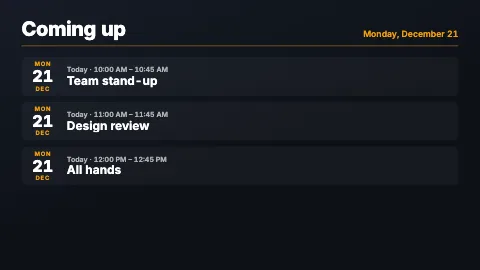
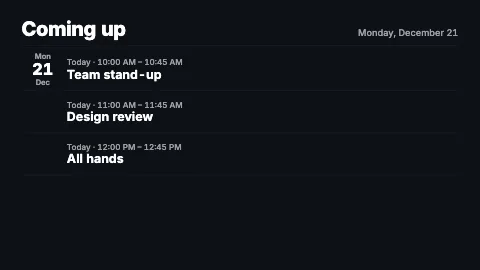
feat(agenda): ruled rows on a flat ground, the accent only on what is on now, one heading a day
The board's agenda (#news-design): a flat ground with ruled rows, not a card per row on a gradient; the accent only on
the event that is on now (a bar at its edge and its time), measured on the background; today's date, the subtitle and
the day labels muted, the labels in title case at 2.8vmin; three text sizes (3, 3.4 and 4.6vmin) plus the day
numeral; and a second event on a day already shown leaves its date column blank (main.ts marks it). Agenda 1.5.0.

Pi measurement waived by the owner (2026-11-26).

Changed region(s): [[0.0312, 0.0889, 0.9688, 0.3556], [0.0625, 0.3556, 0.375, 0.5037], [0.0625, 0.5333, 0.375, 0.6815]]

diff --git a/templates/agenda/style.css b/templates/agenda/style.css
@@ -121,7 +121,6 @@ body {
 :root {
   --accent: var(--sf-accent, #ffb547);
   --bg: var(--sf-bg, #0d1117);
-  --surface: var(--sf-surface, #161c27);
   --text: var(--sf-text, #fff);
   --muted: var(--sf-muted, color-mix(in srgb, var(--text) 60%, transparent));
 }
@@ -140,16 +139,16 @@ body {
   padding: calc(var(--u) * 7) calc(var(--u) * 8);
   display: flex;
   flex-direction: column;
-  background: linear-gradient(160deg, var(--surface) 0%, var(--bg) 55%);
+  background: var(--bg);
 }
 header {
   display: flex;
   justify-content: space-between;
-  align-items: flex-end;
+  align-items: baseline;
   gap: 4vmin;
-  margin-bottom: calc(var(--u) * 4);
+  margin-bottom: calc(var(--u) * 1);
   padding-bottom: calc(var(--u) * 2.4);
-  border-bottom: 0.3vmin solid color-mix(in srgb, var(--accent) 60%, transparent);
+  border-bottom: max(1px, 0.1vmin) solid color-mix(in srgb, var(--text) 18%, transparent);
   will-change: transform, opacity;
   animation:
     rise-in 0.65s var(--d-in) both,
@@ -163,25 +162,25 @@ h1 {
   letter-spacing: -0.02em;
   line-height: 1;
 }
-.subtitle {
-  font-size: calc(var(--u) * 3);
+.subtitle,
+.today {
+  font-size: calc(var(--u) * 3.4);
+  font-weight: 500;
   color: var(--muted);
+}
+.subtitle {
   margin-top: calc(var(--u) * 1.2);
 }
 .subtitle:empty {
   display: none;
 }
 .today {
-  font-size: calc(var(--u) * 3.2);
-  font-weight: 600;
-  color: var(--accent-text);
   white-space: nowrap;
 }
 .events {
   list-style: none;
   display: flex;
   flex-direction: column;
-  gap: calc(var(--u) * 2.2);
   flex: 1;
   min-height: 0;
   overflow: hidden;
@@ -189,22 +188,19 @@ h1 {
 .event {
   flex: none;
 }
+/* Ruled rows on a flat ground. */
 .event {
+  position: relative;
   display: flex;
   align-items: center;
   gap: calc(var(--u) * 3.4);
-  padding: calc(var(--u) * 1.6) calc(var(--u) * 2.4);
-  border-radius: var(--sf-radius, calc(var(--u) * 2)); /* The kit's surface, tinted with its text colour so a card stands out on a light kit too. */
-  background: color-mix(in srgb, var(--sf-surface, rgba(255, 255, 255, 0.045)) 90%, var(--sf-text, transparent));
+  padding: calc(var(--u) * 1.6) 0 calc(var(--u) * 1.6) calc(var(--u) * 2.4);
+  border-bottom: max(1px, 0.1vmin) solid color-mix(in srgb, var(--text) 12%, transparent);
   will-change: transform, opacity;
   animation:
-    slide-in 0.65s var(--d-in) both,
+    rise-in 0.65s var(--d-in) both,
     fade-out 0.3s var(--d-out) forwards;
   animation-delay: calc(0.25s + var(--i) * 0.11s), var(--out);
-}
-.event.now {
-  background: color-mix(in srgb, var(--accent) 16%, transparent);
-  box-shadow: inset 0.5vmin 0 0 var(--accent);
 }
 .day {
   flex: none;
@@ -215,11 +211,9 @@ h1 {
 .dow,
 .mon {
   display: block;
-  font-size: calc(var(--u) * 2.2);
-  font-weight: 700;
-  letter-spacing: 0.12em;
-  text-transform: uppercase;
-  color: var(--day-text);
+  font-size: calc(var(--u) * 2.8);
+  font-weight: 600;
+  color: var(--muted);
 }
 .num {
   display: block;
@@ -231,13 +225,13 @@ h1 {
   min-width: 0;
 }
 .when {
-  font-size: calc(var(--u) * 2.6);
-  font-weight: 600;
-  color: color-mix(in srgb, var(--text) 65%, transparent);
+  font-size: calc(var(--u) * 3);
+  font-weight: 500;
+  color: var(--muted);
 }
 /* Up to two lines, then an ellipsis. */
 .name {
-  font-size: calc(var(--u) * 4.4);
+  font-size: calc(var(--u) * 4.6);
   font-weight: 700;
   line-height: 1.15;
   display: -webkit-box;
@@ -247,7 +241,7 @@ h1 {
   overflow-wrap: anywhere;
 }
 .where {
-  font-size: calc(var(--u) * 2.6);
+  font-size: calc(var(--u) * 3);
   color: var(--muted);
 }
 .where:empty {
@@ -279,11 +273,11 @@ h1 {
   align-items: flex-start;
 }
 /* Portrait has twice the height: taller rows and larger type rather than a list in the top third. */
-[data-orientation='portrait'] .events {
-  gap: calc(var(--u) * 3.4);
+[data-orientation='portrait'] h1 {
+  font-size: calc(var(--u) * 8);
 }
 [data-orientation='portrait'] .event {
-  padding: calc(var(--u) * 3.4) calc(var(--u) * 3.4);
+  padding: calc(var(--u) * 3.4) 0 calc(var(--u) * 3.4) calc(var(--u) * 3.4);
   gap: calc(var(--u) * 4);
 }
 [data-orientation='portrait'] .day {
@@ -304,13 +298,24 @@ h1 {
   font-size: calc(var(--u) * 5.4);
   margin: calc(var(--u) * 0.6) 0;
 }
-@keyframes rise-in {
-  from {
-    opacity: 0;
-    transform: translateY(1.5vmin);
-  }
+/* The accent marks only what is on now: a bar at its edge and its time. */
+.event.now::before {
+  content: '';
+  position: absolute;
+  left: 0;
+  top: calc(var(--u) * 2.4);
+  bottom: calc(var(--u) * 2.4);
+  width: 0.6vmin;
+  background: var(--accent);
 }
-@keyframes slide-in {
+.event.now .when {
+  color: var(--accent-text);
+}
+/* A second event on a day already shown keeps the day's column, blank: one heading a day. */
+.event.same-day .day {
+  visibility: hidden;
+}
+@keyframes rise-in {
   from {
     opacity: 0;
     transform: translateY(1.5vmin);

diff --git a/templates/agenda/test/browser.test.ts b/templates/agenda/test/browser.test.ts
@@ -1,5 +1,5 @@
 import { describe, expect, it } from 'vitest';
-import { at, brandColourTests, host, motionContract, screenFrame, spotData, useTemplate, type Update } from '@signforge/template-test';
+import { at, brandColourTests, DEMO_KIT, host, motionContract, screenFrame, spotData, useTemplate, type Update } from '@signforge/template-test';
 
 const update: Update = {
   a: {
@@ -30,7 +30,7 @@ describe('template time', () => {
 
 brandColourTests(t, {
   spots: (accent) => [[{ accent, events: [...(update.b.events as unknown[]), ...(update.a.events as unknown[])] }]],
-  onBackdrop: ['.today', '.now .mon', '.event:not(.now) .mon'],
+  onBackdrop: ['.now .when'],
 });
 
 // D's motion (docs/template-spec.md, Motion), read by seeking: every row of a full day.
@@ -40,4 +40,41 @@ for (const orientation of ['landscape', 'portrait'] as const)
     const durationMs = 11_000;
     const events = [...(update.b.events as unknown[]), ...(update.a.events as unknown[])];
     expect(await motionContract(await k.play({ subtitle: 'Main hall', events }, undefined, durationMs), durationMs)).toEqual([]);
+  });
+
+// The board's agenda (#news-design): ruled rows on a flat ground, the accent only on what is on now, title-case day
+// labels, and one date heading a day.
+for (const orientation of ['landscape', 'portrait'] as const)
+  it(`rules its rows on a flat ground, keeps the accent to what is on now and heads each day once, ${orientation}`, async () => {
+    const k = await screenFrame(t(), orientation, {});
+    const events = [
+      { title: 'Design review', start: at(-0.5), end: at(1), allDay: false, location: 'Product design' },
+      { title: 'Quarterly planning', start: at(2), end: at(3), allDay: false, location: 'Operations' },
+      { title: 'Candidate interviews', start: at(25), end: at(26), allDay: false, location: 'People team' },
+    ];
+    const f = await k.play({ events }, { colors: { ...DEMO_KIT, accent: '#ffb547' }, shape: 'soft', fonts: {} });
+    const seen = await f.evaluate(() => {
+      for (const a of document.getAnimations()) a.currentTime = 3000;
+      const rows = [...document.querySelectorAll<HTMLElement>('.event')];
+      const style = (el: Element) => getComputedStyle(el);
+      const accent = style(document.querySelector('.now .when')!).color;
+      return {
+        stage: style(document.querySelector('.stage')!).backgroundImage,
+        cards: rows.map((r) => style(r).backgroundColor),
+        rules: rows.map((r) => style(r).borderBottomStyle),
+        accented: [...document.querySelectorAll('.today, .when, .dow, .mon, .name, .where')]
+          .filter((el) => style(el).color === accent)
+          .map((el) => el.className),
+        days: rows.map((r) => style(r.querySelector('.day')!).visibility),
+        labels: [style(rows[0]!.querySelector('.dow')!).textTransform, rows[0]!.querySelector('.dow')!.textContent],
+      };
+    });
+    expect(seen).toEqual({
+      stage: 'none',
+      cards: ['rgba(0, 0, 0, 0)', 'rgba(0, 0, 0, 0)', 'rgba(0, 0, 0, 0)'],
+      rules: ['solid', 'solid', 'solid'],
+      accented: ['when'],
+      days: ['visible', 'hidden', 'visible'],
+      labels: ['none', 'Tue'],
+    });
   });

diff --git a/templates/agenda/main.ts b/templates/agenda/main.ts
@@ -1,5 +1,5 @@
 import { dayKey, defineTemplate, formatter, now as clockNow } from '@signforge/template-sdk';
-import { painted, readableOn } from '@signforge/template-sdk/contrast';
+import { readableOn } from '@signforge/template-sdk/contrast';
 
 interface Event {
   title: string;
@@ -17,14 +17,9 @@ defineTemplate({
     const root = document.documentElement;
     const accent = String(ctx.data.accent);
     root.style.setProperty('--accent', accent);
-    // Accent text must read where it sits (amber, for one, does not on a light kit): the date on
-    // the background and on the surface its gradient starts from.
-    // The date (3.2vmin) and the day labels (2.2vmin, bold) are large text at 1080p, where 3:1 reads.
-    const large = { large: true };
-    const style = getComputedStyle(root);
-    const bg = style.getPropertyValue('--bg');
-    const surface = style.getPropertyValue('--surface');
-    root.style.setProperty('--accent-text', readableOn(surface, readableOn(bg, accent, large), large));
+    // The accent marks only what is on now: its time, on the background, must read (amber, for one, does not on a
+    // light kit). It is large text at 1080p (3vmin, 32 px), where 3:1 reads.
+    root.style.setProperty('--accent-text', readableOn(getComputedStyle(root).getPropertyValue('--bg'), accent, { large: true }));
     const now = clockNow();
     const today = dayKey(ctx, now);
     const tomorrow = dayKey(ctx, new Date(now.getTime() + 864e5));
@@ -42,6 +37,7 @@ defineTemplate({
     const time = formatter(ctx, { hour: 'numeric', minute: '2-digit' });
     // All-day dates are formatted in UTC to keep them on the date they name.
     const utc = { ...ctx, timezone: 'UTC' };
+    let lastDay = '';
     rows.forEach((e, i) => {
       const li = tpl.content.firstElementChild!.cloneNode(true) as HTMLElement;
       li.style.setProperty('--i', String(i));
@@ -59,18 +55,12 @@ defineTemplate({
       q('.name').textContent = e.title;
       q('.where').textContent = e.location;
       if (happening || (e.allDay && key === today)) li.classList.add('now');
+      // One heading a day: a second event on the same day leaves the date to the one above.
+      if (key === lastDay) li.classList.add('same-day');
+      lastDay = key;
       list.appendChild(li);
     });
     // Show only whole rows: drop from the end until the list fits its space.
     while (list.children.length > 1 && list.scrollHeight > list.clientHeight + 1) list.lastElementChild!.remove();
-    // A row's day is the accent on its card, which mixes the surface with the text (or, happening
-    // now, is the accent over the stage): a translucent card is measured over both ends of the
-    // stage's gradient. Rows share two kinds of card, so each is read once.
-    const days = new Map<string, string>();
-    for (const li of list.children) {
-      const card = getComputedStyle(li).backgroundColor;
-      if (!days.has(card)) days.set(card, readableOn(painted(surface, card), readableOn(painted(bg, card), accent, large), large));
-      (li as HTMLElement).style.setProperty('--day-text', days.get(card)!);
-    }
   },
 });

diff --git a/docs/template-spec.md b/docs/template-spec.md
@@ -78,7 +78,7 @@ Each template's browser tests check it (`templates/<id>/test/browser.test.ts`, i
 - `defineTemplate({ prepare, play })` hooks for anything markup cannot do, such as building rows from a list or drawing to a canvas. `prepare` may be async; ready is reported after it resolves. A `stop` hook exists in the SDK but the player does not call it today: a template is simply removed.
 - `formatter(ctx, options)` and `dayKey(ctx, date)` format dates and times in the screen's time zone and locale. Use them for anything shown: the device's own clock settings may not match the screen's location.
 - `fitWords(text, fits)` shortens text to the whole words that fit, ending in "…": CSS `text-overflow` cuts after a space and shows "rain …". `fits` sets the candidate and checks for overflow (`packages/template-sdk/src/fit.test.ts`); it costs about log2(words) layouts, and only for text that overflows.
-- `readableOn(fill, text)` from `@signforge/template-sdk/contrast` is `text` when it reads on `fill` (4.5:1), else black or white, whichever reads better; `readableOn(fill, text, { large: true })` asks 3:1, for large text (below). Use it for text on a fill the template does not choose: a colour field or a kit's colour, whose on-colour a kit may set by hand to a pair that fails (cstore-promo's badge, photo-promo's price tag). Use it the other way round for accent-coloured text, `readableOn(background, accent)`, measured against what the text really sits on: clock's greeting on `--bg` under its accent glow, menu-board's prices on their card, cstore-promo's promo line on the copy panel over the stage. Colours are `#rgb` or `#rrggbb`; a `color-mix` comes back from `getComputedStyle` as `color(srgb …)`, and a translucent card shows what is under it, so resolve the backdrop first with `painted(...layers)` from the same entry point, bottom first, a layer a colour or `[colour, opacity]` (menu-board: `painted(bg, getComputedStyle(card).backgroundColor)`). It reads a 1×1 canvas, so call it once per backdrop, not per row (agenda keeps one per kind of card). Text over a gradient is measured over both ends (agenda's stage, cstore-promo's). It is a separate entry point so that templates which do not use it keep their bundles byte for byte.
+- `readableOn(fill, text)` from `@signforge/template-sdk/contrast` is `text` when it reads on `fill` (4.5:1), else black or white, whichever reads better; `readableOn(fill, text, { large: true })` asks 3:1, for large text (below). Use it for text on a fill the template does not choose: a colour field or a kit's colour, whose on-colour a kit may set by hand to a pair that fails (cstore-promo's badge, photo-promo's price tag). Use it the other way round for accent-coloured text, `readableOn(background, accent)`, measured against what the text really sits on: clock's greeting on `--bg` under its accent glow, menu-board's prices on their card, cstore-promo's promo line on the copy panel over the stage. Colours are `#rgb` or `#rrggbb`; a `color-mix` comes back from `getComputedStyle` as `color(srgb …)`, and a translucent card shows what is under it, so resolve the backdrop first with `painted(...layers)` from the same entry point, bottom first, a layer a colour or `[colour, opacity]` (menu-board: `painted(bg, getComputedStyle(card).backgroundColor)`). It reads a 1×1 canvas, so call it once per backdrop, not per row. Text over a gradient is measured over both ends (cstore-promo's stage). It is a separate entry point so that templates which do not use it keep their bundles byte for byte.
 - `readableOver(pixels, text, { large, lightest })` from `@signforge/template-sdk/backdrop` is the same for a backdrop that is not one colour, text over a photo: given the RGBA pixels behind the text, it is `text` when it reads on every one, else black or white when one of them does, else undefined, and the text needs a fill of its own. With `lightest`, the pixels are an image's sample: each cell's darkest pixel in `pixels` and its lightest at the same place in `lightest`, and the text must read on every colour between the two.
   - **Read the sample, not the photo.** An image uploaded or built since #169 has a sample (`ManifestFile.sample` in the contract): its darkest and lightest pixel in each cell of `IMAGE_SAMPLE_CELL` (16) px, as a PNG of the darkest cells over the lightest. `init` carries it beside the image, as `ctx.assets[sampleAsset(field)]` (both from the same entry point). Drawing the photo into a canvas decodes it again on the main thread, whatever the size of the part read: 70 ms of a Pi's prepare for a 1080p photo. The sample is a few hundred times fewer pixels.
   - **Do not wait for the photo, and do not let it paint, while `prepare` runs.** Before `ready` the SDK awaits `img.decode()`, and the first frame's raster decodes the photo again; the two run one after the other, off the main thread, about 100 ms on a Pi. When a frame paints the loaded photo while `prepare` is still running, the raster's decode is scheduled first and the SDK's waits behind it, so `ready` waits for both: on the Pi that, not the canvas, was most of what #168 cost (`spike/pi-perf/RESULTS.md`, Photo samples). So photo-promo hides its photo (`visibility: hidden`) until `prepare` returns, and takes the photo's size from its sample, to the cell, rather than waiting for the photo to load. Calling `img.decode()` early does not help: each call decodes again.
@@ -106,7 +106,7 @@ A colour field may default to a brand token, `"$brand.<colour>"` with one of the
 
 **Colour lint.** `sf build` and the server warn on a colour literal in a template's CSS (`style.css`, and `<style>` in `index.html`; `sf build` also reads the stylesheets `style.css` imports) that is not the fallback inside a `var()`: a hex colour, `rgb()`/`hsl()` and the like anywhere, and named colours (`white`) in colour properties. It is a warning: the version still builds and registers, and the warnings are kept on its check report. Each lint run reports the first 20, then one line with how many more there are; a colour function nested in another is part of the outer one's text, and a quoted colour or property longer than 80 characters is cut short with `…`. The shipped templates have none (`packages/cli/test/templates.test.ts` keeps it so). How they get there:
 
-- Give each brand role its token: text `--sf-text`, secondary text `--sf-muted`, page `--sf-bg`, cards `--sf-surface`, filled shapes `--sf-primary` with `--sf-on-primary` text, highlights `--sf-accent`. The brand tools derive an on-colour that reads, but a kit may set one by hand that does not (they only warn), and a colour field's fill is whatever the spot sets: pass such pairs through `readableOn` in `prepare`. With no kit, `$brand.accent` is the default palette's amber (`#f59e0b`), on which white reads at 2.14:1. The accent is not a text colour for every background either: amber on a light kit's white is 2.15:1, so accent-coloured text goes through `readableOn` too. **Large text** is WCAG's: at least 24 px, or 18.66 px (14 pt) bold (700 and up), on the screen, and the screen is 1080p: the Pi 4 is the baseline device and is held at 1080p, so `1vmin` is 10.8 px, in portrait too. So text of `2.23vmin` and up, or `1.73vmin` bold, is large and needs 3:1; smaller text needs 4.5:1. Every shipped accent-coloured text is large (agenda's bold day labels at `2.2vmin` are the smallest, 23.8 px), and all pass `{ large: true }`, so a mid-tone brand accent such as green on white (3.30:1) stays the accent instead of turning black. At 3:1 there is no margin, so the backdrop must be the one the text is painted on: photo-promo's eyebrow, measured on the kit's background and not on the photo under it, kept the demo kit's orange at 1.99:1 over a white photo (#124). Text on a fill keeps 4.5:1. Asking 3:1 is a claim about the text's size: shrink the text below the line and drop the option. Each template's browser tests (`brandColourTests` from `@signforge/template-test`) measure both kinds under no kit, the demo kit, a kit with poor on-colours, a light kit, an accent just over 4.5:1 on the demo kit's background, green on white, blue on dark and an accent just over 3:1 on its background and a mid-tone background, photo-promo over a white, a black, a mid-grey and a black-and-white striped photo, broad and 1 px wide at the screen's scale, in landscape and portrait, with the threshold from each text's size at 1080p, and checks that a kit's accent is kept wherever it reads.
+- Give each brand role its token: text `--sf-text`, secondary text `--sf-muted`, page `--sf-bg`, cards `--sf-surface`, filled shapes `--sf-primary` with `--sf-on-primary` text, highlights `--sf-accent`. The brand tools derive an on-colour that reads, but a kit may set one by hand that does not (they only warn), and a colour field's fill is whatever the spot sets: pass such pairs through `readableOn` in `prepare`. With no kit, `$brand.accent` is the default palette's amber (`#f59e0b`), on which white reads at 2.14:1. The accent is not a text colour for every background either: amber on a light kit's white is 2.15:1, so accent-coloured text goes through `readableOn` too. **Large text** is WCAG's: at least 24 px, or 18.66 px (14 pt) bold (700 and up), on the screen, and the screen is 1080p: the Pi 4 is the baseline device and is held at 1080p, so `1vmin` is 10.8 px, in portrait too. So text of `2.23vmin` and up, or `1.73vmin` bold, is large and needs 3:1; smaller text needs 4.5:1. Every shipped accent-coloured text is large (agenda's time of what is on now, at `3vmin`, 32 px, is the smallest), and all pass `{ large: true }`, so a mid-tone brand accent such as green on white (3.30:1) stays the accent instead of turning black. At 3:1 there is no margin, so the backdrop must be the one the text is painted on: photo-promo's eyebrow, measured on the kit's background and not on the photo under it, kept the demo kit's orange at 1.99:1 over a white photo (#124). Text on a fill keeps 4.5:1. Asking 3:1 is a claim about the text's size: shrink the text below the line and drop the option. Each template's browser tests (`brandColourTests` from `@signforge/template-test`) measure both kinds under no kit, the demo kit, a kit with poor on-colours, a light kit, an accent just over 4.5:1 on the demo kit's background, green on white, blue on dark and an accent just over 3:1 on its background and a mid-tone background, photo-promo over a white, a black, a mid-grey and a black-and-white striped photo, broad and 1 px wide at the screen's scale, in landscape and portrait, with the threshold from each text's size at 1080p, and checks that a kit's accent is kept wherever it reads.
 - Shades and shadows are the kit's background mixed with `transparent` (`color-mix(in srgb, var(--sf-bg, #000) 50%, transparent)`), and text over them the kit's text: the kit keeps that pair legible, so a light kit gets a light shade with dark text. A "light" theme option swaps the two (`templates/menu-board`).
 - A colour that is not a brand role, such as a weather sky, is a mix of tokens whose two fallbacks are the same literal, so with no kit it is exactly that colour: `color-mix(in srgb, var(--sf-primary, #2f80ed) 75%, var(--sf-bg, #2f80ed))`.
 - Canvas drawing is not linted; read a token with `getComputedStyle` to follow the kit (weather's rain and snow).

diff --git a/packages/template-test/README.md b/packages/template-test/README.md
@@ -23,7 +23,7 @@ Chromium, not the Pi: these tests check behaviour, not frame rates. Performance 
 
 Every template: the update lifecycle, above, and D's motion in both orientations (`motionContract`), alert's in every severity, weather's under three skies.
 
-- **agenda**: today's date from `init`'s clock, not the device's; accent text (today, the day labels on the row happening now and the others) on its backdrop under every brand kit.
+- **agenda**: today's date from `init`'s clock, not the device's; the accent text, the time of what is on now, on its backdrop under every brand kit; ruled rows on a flat ground, the accent on nothing else, title-case day labels, and one date heading a day.
 - **alert** (#200): every severity reads as painted, in its own colours whatever the kit; every field at its longest fits with nothing overlapping, in every toggle state and orientation; each toggle is marked and removes its part, and without the QR code the type steps up; long copy steps the type down until it fits; emergency and warning drop in hard, advisory and notice fade, and only emergency pulses, at most once every 2 s; with reduced motion nothing animates.
 - **announcement** (#197), at 1920x1080: in each look, both orientations, with each toggle off alone, all off, and every text field at its `maxLength` (one 80-letter word too), no block leaves the screen or overlaps another, no text is cut sideways without an ellipsis and no clamped text shows more than its lines; every text reads as painted with no kit, the demo kit and a light kit; each toggle is marked and what is off removed, the headline steps up without the photo and the footer closes up without the QR code (Night's headline takes its column); an element with nothing to show is left out; the defaults play at the look's own type sizes; the QR code is at least 30vmin, black on white in every look and kit, and reads back (jsQR) as a 100-character address; every element has an intro and an outro ending with the spot, only `transform` and `opacity` move, on at most 50 elements; with reduced motion nothing animates.
 - **clock**: the time and date from `init`'s clock, not the device's; the greeting, in the accent, on its backdrop under every brand kit.
